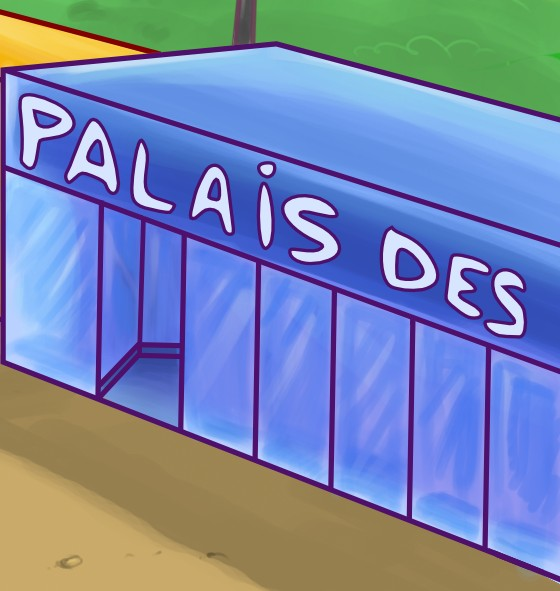
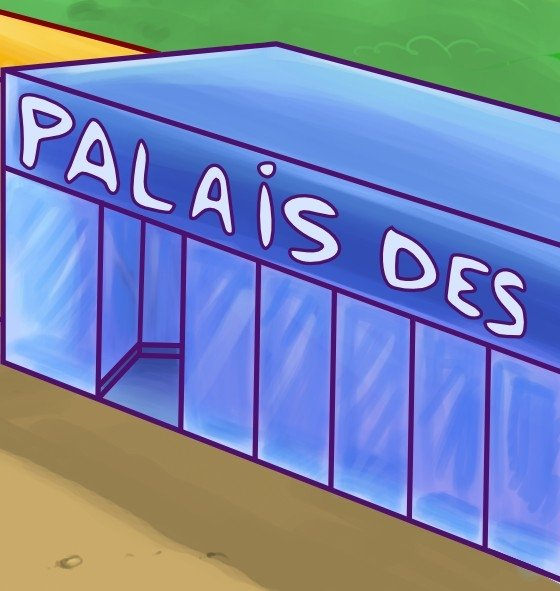
Accès par l'éditeur au paramétrage ordres de grandeur, et mise à jour des images retravaillées par Arnaud.

Changed region(s): [[0.3946, 0.0, 0.4857, 0.0914]]

diff --git a/editeur.cpp b/editeur.cpp
@@ -16,26 +16,49 @@ Editeur::Editeur(QWidget *parent) :
 {
     this->setWindowModality(Qt::ApplicationModal);
     m_ui->setupUi(this);
+
+        //Ajout des items dans les comboBox - celles concernant les min et max sont cachées par défaut -
         m_ui->cbNiveau->addItem(tr("Niveau1"), 1);
-        m_ui->cbNiveau->addItem(tr("Niveau2"), 2);
-        m_ui->cbNiveau->addItem(tr("Niveau3"), 3);
-        m_ui->cbNiveau->addItem(tr("Personnel"),4);
+            m_ui->cbNiveau->addItem(tr("Niveau2"), 2);
+            m_ui->cbNiveau->addItem(tr("Niveau3"), 3);
+            m_ui->cbNiveau->addItem(tr("Personnel"),4);
 
         m_ui->cbOperation->addItem(tr("Addition"), 1);
-        m_ui->cbOperation->addItem(tr("Multiplication"), 2);
-        m_ui->cbOperation->addItem(tr("Soustraction"),3);
+            m_ui->cbOperation->addItem(tr("Multiplication"), 2);
+            m_ui->cbOperation->addItem(tr("Soustraction"),3);
+            m_ui->cbOperation->addItem(tr("approcheA"),4);
+            m_ui->cbOperation->addItem(tr("approcheS"),4);
+            m_ui->cbOperation->addItem(tr("approcheM"),4);
+
+        m_ui->cbMaxG->addItem("10",1);
+            m_ui->cbMaxG->addItem("100",2);
+            m_ui->cbMaxG->addItem("1000",3);
+            m_ui->cbMaxG->hide();
+            m_ui->lblGMax_2->hide();
+        m_ui->cbMaxD->addItem("10",1);
+            m_ui->cbMaxD->addItem("100",2);
+            m_ui->cbMaxD->addItem("1000",3);
+            m_ui->cbMaxD->hide();
+            m_ui->lblDMax_2->hide();
 
         connect(m_ui->sldVitesse, SIGNAL(valueChanged(int)), m_ui->pbVitesse, SLOT(setValue(int)));
+
+        //Initialisation attributs de la classe
         m_niveauEnCours = new QString(m_ui->cbNiveau->currentText());
+        m_operationEnCours = new QString(m_ui->cbOperation->currentText());
+        m_minG=m_maxG=m_minD=m_maxD=0;
+
         QFile* fichierConf = new QFile(QDir::homePath()+"/leterrier/calcul-mental/conf.perso/parametres.conf");
              if (!fichierConf->exists()) initialiser();
         this->chargerNiveau(*m_niveauEnCours);
 
         connect(m_ui->cbNiveau, SIGNAL(currentIndexChanged(QString)), this, SLOT(changerNiveau(QString)));
-        connect(m_ui->spbGMin, SIGNAL(valueChanged(int)), this, SLOT(testerValeurs(int)));
-        connect(m_ui->spbGMax, SIGNAL(valueChanged(int)), this, SLOT(testerValeurs(int)));
-        connect(m_ui->spbDMin, SIGNAL(valueChanged(int)), this, SLOT(testerValeurs(int)));
-        connect(m_ui->spbDMax, SIGNAL(valueChanged(int)), this, SLOT(testerValeurs(int)));
+        connect(m_ui->cbOperation, SIGNAL(currentIndexChanged(QString)), this, SLOT(changerOperation(QString)));
+
+//        connect(m_ui->spbGMin, SIGNAL(valueChanged(int)), this, SLOT(testerValeurs(int)));
+//        connect(m_ui->spbGMax, SIGNAL(valueChanged(int)), this, SLOT(testerValeurs(int)));
+//        connect(m_ui->spbDMin, SIGNAL(valueChanged(int)), this, SLOT(testerValeurs(int)));
+//        connect(m_ui->spbDMax, SIGNAL(valueChanged(int)), this, SLOT(testerValeurs(int)));
 
 }
 
@@ -113,6 +136,34 @@ void Editeur::initialiserApproche(QString operation)
     config.endGroup();
 }
 
+void Editeur::initialiserApprocheM(QString operation)
+{
+    QSettings config(QDir::homePath()+"/leterrier/calcul-mental/conf.perso/parametres.conf", QSettings::IniFormat);
+    config.beginGroup(operation);
+            config.beginGroup(tr("Niveau1"));
+                config.setValue(tr("MaxGauche"), 100);
+                config.setValue(tr("MaxDroite"), 10);
+                config.setValue(tr("TempsAccorde"),8);
+            config.endGroup();
+            config.beginGroup(tr("Niveau2"));
+                config.setValue(tr("MaxGauche"), 1000);
+                config.setValue(tr("MaxDroite"), 10);
+                config.setValue(tr("TempsAccorde"),8);
+            config.endGroup();
+            config.beginGroup(tr("Niveau3"));
+                config.setValue(tr("MaxGauche"), 100);
+                config.setValue(tr("MaxDroite"), 100);
+                config.setValue(tr("TempsAccorde"),8);
+            config.endGroup();
+            config.beginGroup(tr("Personnel"));
+                config.setValue(tr("MaxGauche"), 1000);
+                config.setValue(tr("MaxDroite"), 1000);
+                config.setValue(tr("TempsAccorde"),8);
+            config.endGroup();
+            config.setValue("NiveauEnCours"+operation, "Niveau1");
+    config.endGroup();
+}
+
 void Editeur::initialiserComplement(QString operation)
 {
     QSettings config(QDir::homePath()+"/leterrier/calcul-mental/conf.perso/parametres.conf", QSettings::IniFormat);
@@ -147,7 +198,7 @@ void Editeur::initialiser()
     initialiserOperation("soustraction");
     initialiserApproche("approcheA");
     initialiserApproche("approcheS");
-    initialiserApproche("approcheM");
+    initialiserApprocheM("approcheM");
     initialiserComplement("complementA10");
     initialiserComplement("complementA20");
     initialiserComplement("complementA100");
@@ -164,16 +215,22 @@ void Editeur::sauverNiveau(QString niveau)
 {
     QSettings config(QDir::homePath()+"/leterrier/calcul-mental/conf.perso/parametres.conf", QSettings::IniFormat);
         config.setValue(tr("NombreBallons"), m_ui->spbNombreBallons->value());
-        config.beginGroup(m_ui->cbOperation->currentText());
+        config.beginGroup(*m_operationEnCours);
             config.beginGroup(niveau);
-                config.setValue(tr("MinGauche"), m_ui->spbGMin->value());
-                config.setValue(tr("MaxGauche"), m_ui->spbGMax->value());
-                config.setValue(tr("MinDroite"), m_ui->spbDMin->value());
-                config.setValue(tr("MaxDroite"), m_ui->spbDMax->value());
+                if (m_operationEnCours->left(8)!="approche") config.setValue(tr("MinGauche"), m_ui->spbGMin->value());
+                if (m_operationEnCours->left(8)!="approche") config.setValue(tr("MaxGauche"), m_ui->spbGMax->value());
+                else config.setValue(tr("MaxGauche"),m_ui->cbMaxG->currentText().toInt());
+                if (m_operationEnCours->left(8)!="approche") config.setValue(tr("MinDroite"), m_ui->spbDMin->value());
+                if (m_operationEnCours->left(8)!="approche") config.setValue(tr("MaxDroite"), m_ui->spbDMax->value());
+                else config.setValue(tr("MaxDroite"),m_ui->cbMaxD->currentText().toInt());
                 config.setValue(tr("TempsAccorde"),m_ui->sldVitesse->value());
             config.endGroup();
         config.endGroup();
         *m_niveauEnCours = niveau;
+        m_minG = m_ui->spbGMin->value();
+        m_maxG = m_ui->spbGMax->value();
+        m_minD = m_ui->spbDMin->value();
+        m_maxD = m_ui->spbDMax->value();
     //je supprime pas pour l'instant, je garde dans un coin :
 }
 
@@ -181,15 +238,34 @@ void Editeur::chargerNiveau(QString niveau)
 {
     QSettings config(QDir::homePath()+"/leterrier/calcul-mental/conf.perso/parametres.conf", QSettings::IniFormat);
     m_ui->spbNombreBallons->setValue(config.value(tr("NombreBallons")).toInt());
-    config.beginGroup(m_ui->cbOperation->currentText());
+    config.beginGroup(*m_operationEnCours);
         config.beginGroup(niveau);
-            m_ui->spbGMax->setValue(config.value(tr("MaxGauche")).toInt());
             m_ui->spbGMin->setValue(config.value(tr("MinGauche")).toInt());
-            m_ui->spbDMax->setValue(config.value(tr("MaxDroite")).toInt());
+            m_maxG = config.value(tr("MaxGauche")).toInt();
+            m_ui->spbGMax->setValue(m_maxG);
             m_ui->spbDMin->setValue(config.value(tr("MinDroite")).toInt());
+            m_maxD = config.value(tr("MaxDroite")).toInt();
+            m_ui->spbDMax->setValue(m_maxD);
             m_ui->sldVitesse->setValue(config.value(tr("TempsAccorde")).toInt());
         config.endGroup();
     config.endGroup();
+
+        if (m_operationEnCours->left(8)=="approche") {
+        switch (m_maxG) {
+            case 10 : m_ui->cbMaxG->setCurrentIndex(0);break;
+            case 100 : m_ui->cbMaxG->setCurrentIndex(1);break;
+            case 1000 : m_ui->cbMaxG->setCurrentIndex(2);break;
+            default : m_ui->cbMaxG->setCurrentIndex(2);break;
+            }
+
+        switch (m_maxD) {
+            case 10 : m_ui->cbMaxD->setCurrentIndex(0);break;
+            case 100 : m_ui->cbMaxD->setCurrentIndex(1);break;
+            case 1000 : m_ui->cbMaxD->setCurrentIndex(2);break;
+            default : m_ui->cbMaxD->setCurrentIndex(2);break;
+            }
+        qDebug()<<"maxgauchelu"<<m_maxG<<" et maxdroitlu "<<m_maxD;
+        }
 }
 
 void Editeur::changerNiveau(QString chaine)
@@ -199,9 +275,97 @@ void Editeur::changerNiveau(QString chaine)
     *m_niveauEnCours = chaine;
 }
 
+void Editeur::sauverOperation(QString operation)
+{
+    QSettings config(QDir::homePath()+"/leterrier/calcul-mental/conf.perso/parametres.conf", QSettings::IniFormat);
+        config.setValue(tr("NombreBallons"), m_ui->spbNombreBallons->value());
+        config.beginGroup(operation);
+            config.beginGroup(*m_niveauEnCours);
+                if (m_operationEnCours->left(8)!="approche") config.setValue(tr("MinGauche"), m_ui->spbGMin->value());
+                if (operation.left(8)!="approche") config.setValue(tr("MaxGauche"), m_ui->spbGMax->value());
+                else config.setValue(tr("MaxGauche"),m_ui->cbMaxG->currentText().toInt());
+                if (m_operationEnCours->left(8)!="approche") config.setValue(tr("MinDroite"), m_ui->spbDMin->value());
+                if (operation.left(8)!="approche") config.setValue(tr("MaxDroite"), m_ui->spbDMax->value());
+                else config.setValue(tr("MaxDroite"),m_ui->cbMaxD->currentText().toInt());
+                config.setValue(tr("TempsAccorde"),m_ui->sldVitesse->value());
+            config.endGroup();
+        config.endGroup();
+        *m_operationEnCours = operation;
+}
+
+void Editeur::chargerOperation(QString operation)
+{
+     if (operation.left(8)=="approche") {
+            m_ui->spbGMin->setDisabled(true);
+            m_ui->spbDMin->setDisabled(true);
+            m_ui->spbGMax->hide();
+                m_ui->spbDMax->hide();
+                m_ui->lblGMax->hide();
+                m_ui->lblDMax->hide();
+                m_ui->cbMaxG->show();
+                m_ui->cbMaxD->show();
+                m_ui->lblGMax_2->show();
+                m_ui->lblDMax_2->show();
+            }
+    else {
+        m_ui->spbGMin->setEnabled(true);
+        m_ui->spbDMin->setEnabled(true);
+        m_ui->spbGMax->setMaximum(99);
+        m_ui->spbDMax->setMaximum(99);
+        m_ui->spbGMax->show();
+            m_ui->spbDMax->show();
+            m_ui->lblGMax->show();
+            m_ui->lblDMax->show();
+            m_ui->cbMaxG->hide();
+            m_ui->cbMaxD->hide();
+            m_ui->lblGMax_2->hide();
+            m_ui->lblDMax_2->hide();
+        }
+
+    QSettings config(QDir::homePath()+"/leterrier/calcul-mental/conf.perso/parametres.conf", QSettings::IniFormat);
+    m_ui->spbNombreBallons->setValue(config.value(tr("NombreBallons")).toInt());
+    config.beginGroup(operation);
+        config.beginGroup(*m_niveauEnCours);
+            m_maxG = config.value(tr("MaxGauche")).toInt();
+            m_ui->spbGMax->setValue(m_maxG);
+            m_ui->spbGMin->setValue(config.value(tr("MinGauche")).toInt());
+            m_maxD = config.value(tr("MaxDroite")).toInt();
+            m_ui->spbDMax->setValue(m_maxD);
+            m_ui->spbDMin->setValue(config.value(tr("MinDroite")).toInt());
+            m_ui->sldVitesse->setValue(config.value(tr("TempsAccorde")).toInt());
+        config.endGroup();
+    config.endGroup();
+
+    if (operation.left(8)=="approche") {
+        switch (m_maxG) {
+            case 10 : m_ui->cbMaxG->setCurrentIndex(0);break;
+            case 100 : m_ui->cbMaxG->setCurrentIndex(1);break;
+            case 1000 : m_ui->cbMaxG->setCurrentIndex(2);break;
+            default : m_ui->cbMaxG->setCurrentIndex(2);break;
+            }
+
+        switch (m_maxD) {
+            case 10 : m_ui->cbMaxD->setCurrentIndex(0);break;
+            case 100 : m_ui->cbMaxD->setCurrentIndex(1);break;
+            case 1000 : m_ui->cbMaxD->setCurrentIndex(2);break;
+            default : m_ui->cbMaxD->setCurrentIndex(2);break;
+            }
+        qDebug()<<"maxgauchelu"<<m_maxG<<" et maxdroitlu "<<m_maxD;
+        }
+
+}
+
+void Editeur::changerOperation(QString operation)
+{
+    this->sauverOperation(*m_operationEnCours);
+    this->chargerOperation(operation);
+    *m_operationEnCours = operation;
+}
+
 void Editeur::closeEvent(QCloseEvent *event)
 {
     this->sauverNiveau(*m_niveauEnCours);
+    this->sauverOperation(*m_operationEnCours);
     event->accept();
     delete(this);
 

diff --git a/exercice.cpp b/exercice.cpp
@@ -10,7 +10,7 @@
 #include <QApplication>
  #include <QDesktopWidget>
 
-const int NBCHIFFRE = 2;
+const int NBCHIFFRE = 3;
 const float SEUIL_NON_ACQUIS=0.4;
 const float SEUIL_ACQUIS=0.8;
 
@@ -272,8 +272,8 @@ void exercice::on_btnFeu_clicked()
                 prof = new QPixmap(QCoreApplication::applicationDirPath()+"/images/bien.png");
             fondProf->setPixmap(*prof);
             m_scene->addItem(fondProf);
-            fondProf->setPos(m_depart->x(),m_depart->y()-prof->height()/1.5);
-            fondProf->setZValue(m_nbMaxBallons-1-10);
+            fondProf->setPos(m_depart->x(),m_depart->y()-prof->height()/1.2);
+            fondProf->setZValue(m_nbMaxBallons);
 
         QString tabBallons[] = {QCoreApplication::applicationDirPath()+"/images/ballonBleu.png",QCoreApplication::applicationDirPath()+"/images/ballonJaune.png",QCoreApplication::applicationDirPath()+"/images/ballonRouge.png",QCoreApplication::applicationDirPath()+"/images/ballonVert.png",QCoreApplication::applicationDirPath()+"/images/ballonOrange.png"};
         for (int i=0;i<5;i++) {

diff --git a/editeur.h b/editeur.h
@@ -23,8 +23,14 @@ protected:
 private:
     Ui::Editeur *m_ui;
     QString *m_niveauEnCours;
+    QString *m_operationEnCours;
+    int m_minG;
+    int m_maxG;
+    int m_minD;
+    int m_maxD;
     void initialiserOperation(QString);
     void initialiserApproche(QString operation);
+    void initialiserApprocheM(QString operation);
     void initialiserComplement(QString operation);
 
 private slots:
@@ -32,6 +38,9 @@ private slots:
     void sauverNiveau(QString);
     void chargerNiveau(QString);
     void changerNiveau(QString);
+    void sauverOperation(QString);
+    void chargerOperation(QString);
+    void changerOperation(QString);
     void testerValeurs(int);
 };
 
